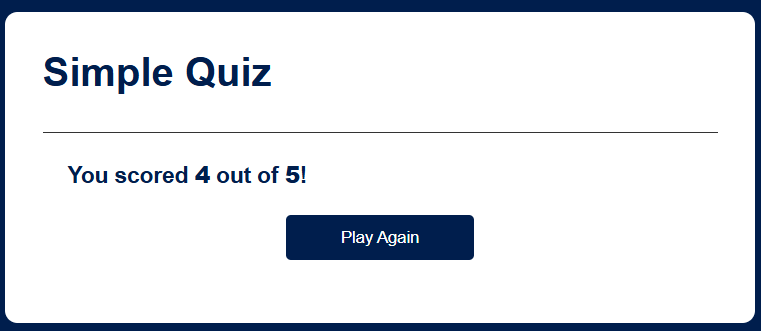
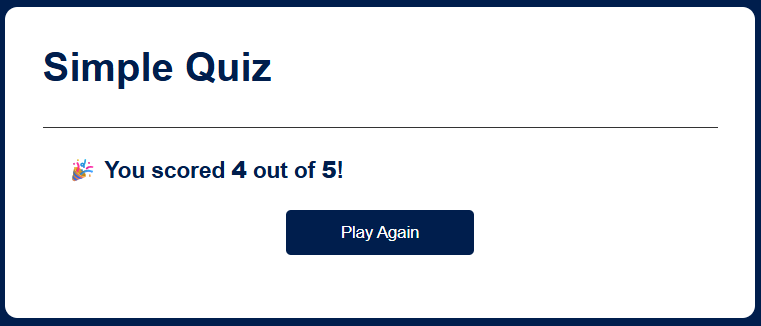
README Updated

diff --git a/style.css b/style.css
@@ -83,21 +83,6 @@ body{
     margin-bottom:15px;
 }
 
-#start-screen p{
-    margin-bottom:20px;
-    color:#555;
-}
-
-#start-screen ul{
-    list-style:none;
-    margin-bottom:30px;
-}
-
-#start-screen ul li{
-    margin:10px 0;
-    font-size:17px;
-}
-
 #start-btn{
     background:#001e4d;
     color:#fff;

diff --git a/README.md b/README.md
@@ -37,9 +37,11 @@ Quiz-App/
 
 ## 📸 Preview
 
-![Ready](images/img3.png?width=250)
-![Quiz](images/img1.png?width=250) 
-![Score](images/img2.png?width=250)
+<p align="center">
+  <img src="images/img3.png" alt="Welcome Screen" width="250">
+  <img src="images/img1.png" alt="Quiz Screen" width="250">
+  <img src="images/img2.png" alt="Score Screen" width="250">
+</p>
 
 
 ## 📚 Concepts Practiced
